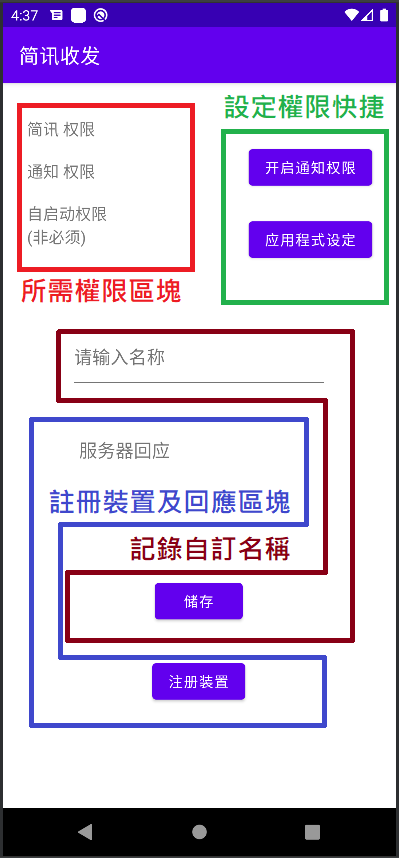
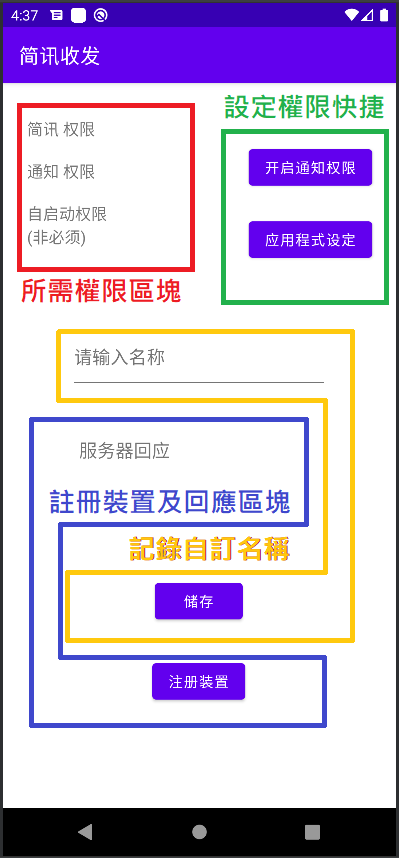
修復通知bug

Changed region(s): [[0.1203, 0.3636, 0.9023, 0.7576]]

diff --git a/resources/views/docmenu.blade.php b/resources/views/docmenu.blade.php
@@ -59,25 +59,25 @@
                         <img src=/doc/viewnote.PNG>
                     </div>
                     <h4 class="py-2 mt-3">　　<b>各區塊要點</b></h4>
-                    <h5 class="pt-2"><b>所需權限區塊</b></h5>
+                    <h5 class="pt-2 text-danger"><b>所需權限區塊</b></h5>
                     <div class="p-2">
                         <span>並非即時更新，須按HOME鍵或返回鍵 回到手機主畫面，再返回APP才會偵測權限是否取得。<b class="text-danger">只是輔助功能，只要設定有開啟即可</b></span>
                         <div class="text-black-50 fw-lighter ">tip:只要有開啟權限即可繼續使用；即時更新在舊款手機容易影響效能</div>
                     </div>
 
-                    <h5 class="pt-2"><b>設定權限快捷</b></h5>
+                    <h5 class="pt-2 text-success"><b>設定權限快捷</b></h5>
                     <div class="p-2">
                         <span>前往系統設定的捷徑，「开启通知权限」前往系統通知頁面，</span>
                         <span>「应用程式设定」可以檢查並開啟簡訊權限及自啟動權限。</span>
                         <div class="text-black-50 fw-lighter">tip:不同的廠牌及型號可能系統上會有特殊規格，可能發生無法快捷開啟的情況，需要手動前往設定</div>
                     </div>
 
-                    <h5 class="pt-2"><b>記錄自訂名稱</b></h5>
+                    <h5 class="pt-2 text-warning"><b>記錄自訂名稱</b></h5>
                     <div class="p-2">
                         <span>輸入此裝置的名稱，名稱不可與其他裝置重複，<b class="text-danger">需按儲存後才生效</b>。</span>
                         <div class="text-black-50 fw-lighter">tip:未儲存裝置名稱會無法註冊裝置到後台</div>
                     </div>
-                    <h5 class="pt-2"><b>註冊裝置及回應區塊</b></h5>
+                    <h5 class="pt-2 text-primary"><b>註冊裝置及回應區塊</b></h5>
                     <div class="p-2">
                         <span>儲存裝置名稱並沒有與其他裝置重複後，點擊「注册装置」將自動新增此裝置至後台的裝置管理中。此時「服务器回应」區塊會顯示"本机ID: ???????????? 已註冊" 並顯示OK字樣(OK只會顯示一次)</span>
                         <div class="text-black-50 fw-lighter">tip:若未成功，在「服务器回应」區塊會顯示伺服器回應的原因</div>
@@ -332,7 +332,7 @@
                     <h4 class="py-2 mt-3"><b>開啟通知功能</b></h4>
                     <div class="p-2">
                         <span>要開啟通知功能，首先要給予網站通知權限，</span><br>
-                        <span>通常第一次進入會詢問，若未開啟可依以下步驟：</span>
+                        <span>通常第一次進入會詢問，若未開啟(如:無痕模式)可依以下步驟：</span>
                         <div class="text-black-50 fw-lighter">tip:並非強制開啟，可以自行決定是否需要此功能</div>
                     </div>
                     <div class="mw-75 h-auto">
@@ -350,11 +350,13 @@
                         <img class="img-fluid" src=/doc/notinow.PNG>
                     </div>
 
-                    <h4 class="py-2 mt-3"><b></b></h4>
-                    <h5 class="pt-2"><b></b></h5>
+                    <h5 class="pt-2"><b>通知列</b></h5>
                     <div class="p-2">
                         <span></span>
                         <div class="text-black-50 fw-lighter">tip:</div>
+                    </div>
+                    <div class="mw-75 h-auto">
+                        <img class="img-fluid" src=/doc/notitop.PNG>
                     </div>
                 </div>
                 <!--簡訊-->

diff --git a/resources/views/layouts/goodnav.blade.php b/resources/views/layouts/goodnav.blade.php
@@ -44,8 +44,10 @@
                             </div>
                             @if ($notifications->count() != 0)
                                 <a class="dropdown-item text-center small text-gray-500 no_read_foot" id="all_read" href="#">全部已讀</a>
+                                <a class="dropdown-item text-center small text-gray-500 no_read_foot" id="no_unread_noti" hidden href="#">沒有未讀通知</a>
                             @else
-                                <a class="dropdown-item text-center small text-gray-500 no_read_foot"  href="#">沒有未讀通知</a>
+                                <a class="dropdown-item text-center small text-gray-500 no_read_foot" id="all_read" hidden href="#">全部已讀</a>
+                                <a class="dropdown-item text-center small text-gray-500 no_read_foot" id="no_unread_noti" href="#">沒有未讀通知</a>
                             @endif
 
                         </div>
@@ -100,8 +102,9 @@
                             top.location.reload()
                         })
                     })
-                    var count0 = $('no_read_count').val();
+                    var count0 =$('#no_read_count').text();
                     function notirefresh(){
+                        console.log(count0);
                         var $this = $(this)
                         $.ajax({
                             headers: {
@@ -112,6 +115,10 @@
                             data: {'count': count0,}
                         })
                         .done(function(notifications){
+                            if(count0 ==0){
+                                    var navcount= document.getElementById("all_read").hidden = false;
+                                    var navcount= document.getElementById("no_unread_noti").hidden = true;
+                                }
                             var end=notifications.countSer-count0;
                             count0 =notifications.countSer;
                             if(notifications.notifications == "nonew"){
@@ -119,17 +126,17 @@
                                 var navcount= document.getElementById("no_read_count").hidden = false;
                                 $('#no_read_count').text(count0);
                                 for(i=0;i<end ;i++){
-                                    //console.log(notifications.notifications[i].data);
+                                    console.log(notifications.notifications[i].data);
                                     $('#no_read_content').append('<a class="dropdown-item d-flex align-items-center read_notification" data-id="{{'+notifications.notifications[i].id+'"  href="/sms-lists"><div class="mr-3"></div><div><div class="small text-gray-500">'+notifications.notifications[i].created_at+'</div><span class="font-weight-bold">'+notifications.notifications[i].data+'</span></div></a>');
                                     var notification = new Notification(notifications.notifications[i].data, {
                                                                                 icon: '/icon/send.svg',
                                                                                 body: '內文請在簡訊列表查看',
                                                                             });
+
                                 }
-                                //$('#notiarea').hide();
-                                //$('#notiarea').show();
 
                             }
+
                         })
                         setTimeout('notirefresh()',6000);
                     }
